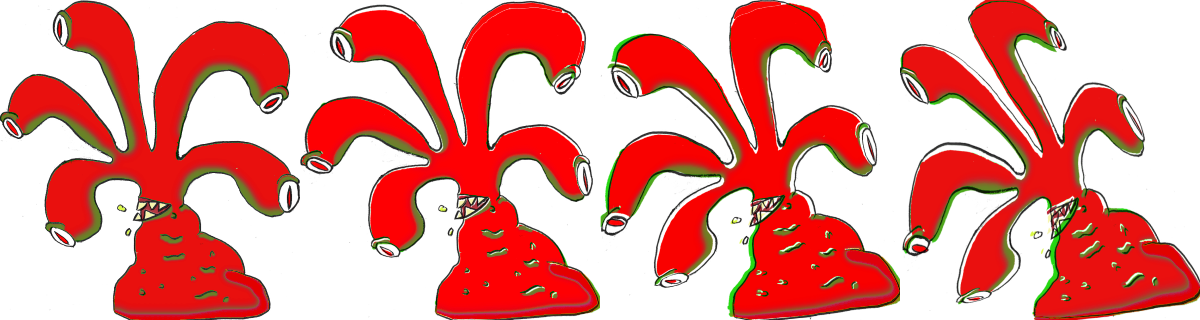
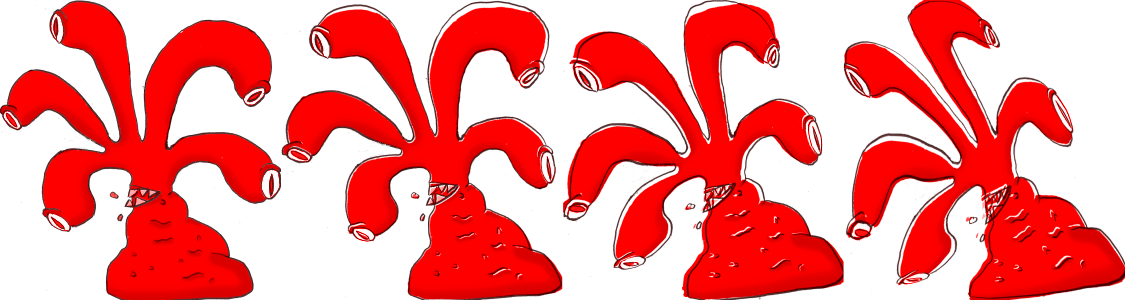
IMAGENES PARA PRESENTACION TERMINADO

diff --git a/Programacion/Pruebas/AliensDriveMeCrazy/src/AliensDriveMeCrazy/Images.java b/Programacion/Pruebas/AliensDriveMeCrazy/src/AliensDriveMeCrazy/Images.java
@@ -22,6 +22,10 @@ public class Images
     public static int MENU = 0;
     public static int BASE_DER = 1;
     public static int BASE_IZQ = 2;
+    public static int BASE_SDE = 10;
+    public static int BASE_SIZ = 11;
+    public static int FUERTE_SDE = 12;
+    public static int FUERTE_SIZ = 13;
     public static int HERO0 = 3;
     public static int HERO1 = 4;
     public static int HERO2 = 5;
@@ -39,8 +43,12 @@ public class Images
         {
             sprites.put(Images.BASE_DER, new Animation (new SpriteSheet("./src/img/BASE_DER.png",281,300),180));
             sprites.put(Images.BASE_IZQ, new Animation (new SpriteSheet("./src/img/BASE_IZQ.png",281,300),180));
-            sprites.put(Images.FUERTE_DER, new Animation (new SpriteSheet("./src/img/BASE_DER.png",281,300),180));
-            sprites.put(Images.FUERTE_IZQ, new Animation (new SpriteSheet("./src/img/BASE_IZQ.png",281,300),180));
+            sprites.put(Images.BASE_SDE, new Animation (new SpriteSheet("./src/img/BASE_SDE.png",300,320),180));
+            sprites.put(Images.BASE_SIZ, new Animation (new SpriteSheet("./src/img/BASE_SIZ.png",300,320),180));
+            sprites.put(Images.FUERTE_DER, new Animation (new SpriteSheet("./src/img/FUERTE_DER.png",281,300),180));
+            sprites.put(Images.FUERTE_IZQ, new Animation (new SpriteSheet("./src/img/FUERTE_IZQ.png",281,300),180));
+            sprites.put(Images.FUERTE_SDE, new Animation (new SpriteSheet("./src/img/FUERTE_SDE.png",300,320),180));
+            sprites.put(Images.FUERTE_SIZ, new Animation (new SpriteSheet("./src/img/FUERTE_SIZ.png",300,320),180));
             images.put(Images.MENU, new Image("./src/img/MENU.png"));
         }
         catch (SlickException e)

diff --git a/Programacion/Pruebas/AliensDriveMeCrazy/src/AliensDriveMeCrazy/Characters/BadGuy.java b/Programacion/Pruebas/AliensDriveMeCrazy/src/AliensDriveMeCrazy/Characters/BadGuy.java
@@ -35,7 +35,8 @@ public class BadGuy extends Character
     {
         if (alive)
         {
-            Game.getImages().getSprit(xVel>0? (healthMax==4?Images.BASE_DER:Images.FUERTE_DER):(healthMax==4?Images.BASE_IZQ:Images.FUERTE_IZQ)).draw(x,y,w,h);
+            System.out.println(yVel);
+            Game.getImages().getSprit(xVel>0? ((y == floor)?(healthMax==4?Images.BASE_DER:Images.FUERTE_DER):(healthMax==4?Images.BASE_SDE:Images.FUERTE_SDE)):((y == floor)?(healthMax==4?Images.BASE_IZQ:Images.FUERTE_IZQ):(healthMax==4?Images.BASE_SIZ:Images.FUERTE_SIZ))).draw(x,y,w,h);
         }
         shots.forEach((s)->
         {
